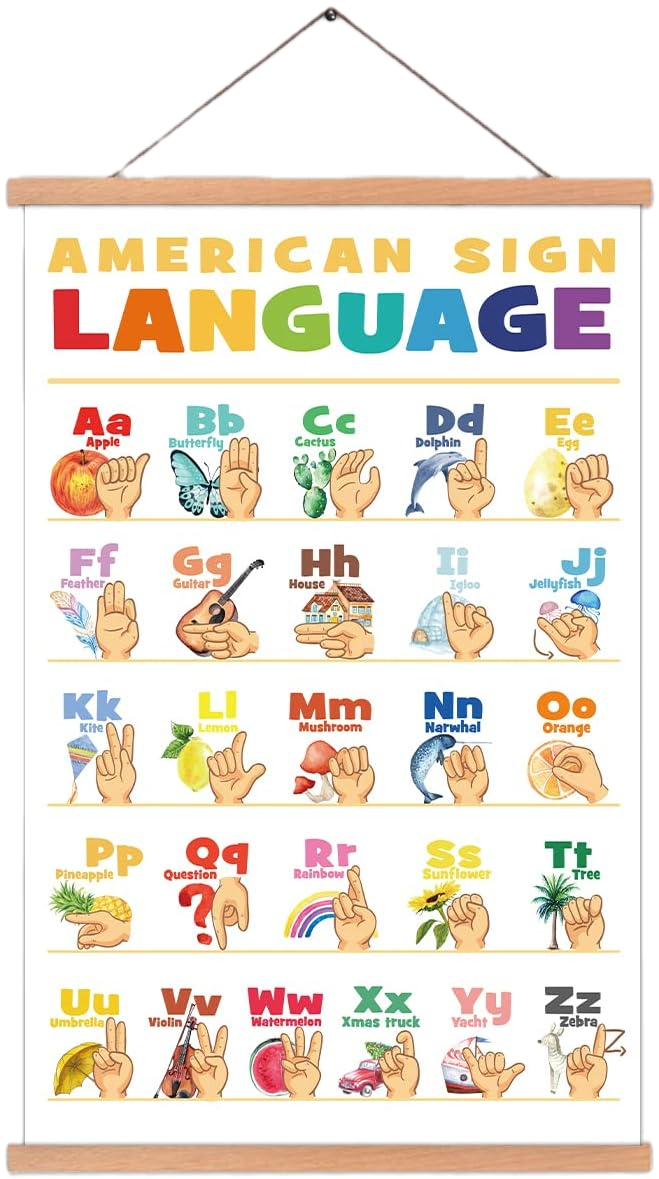
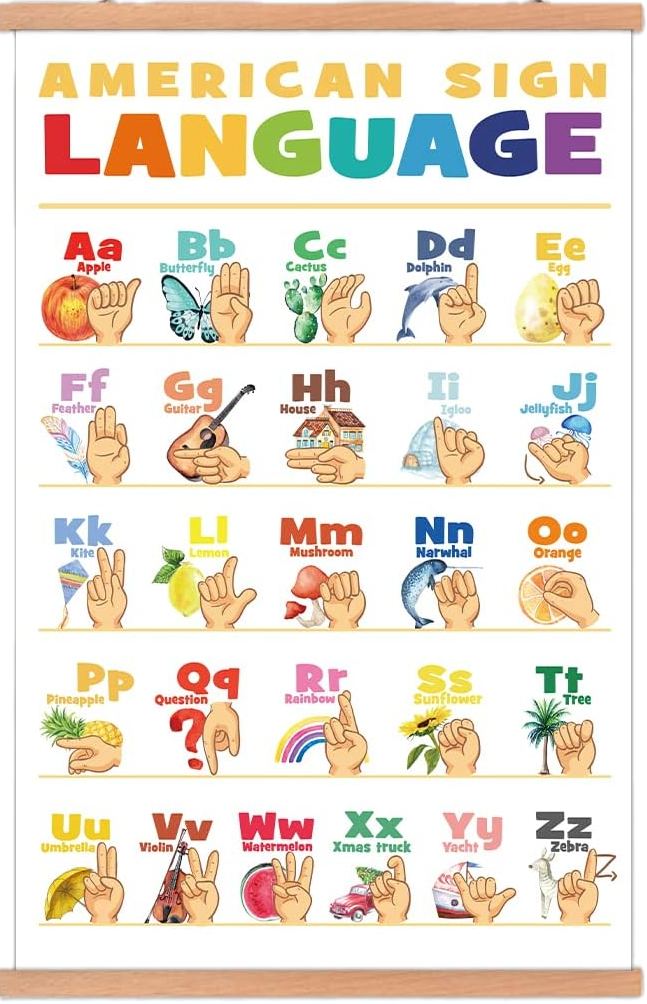
language and image adjustments

diff --git a/src/component/pages/englishLettersIdentifyPage/EnglishLettersIdentifyPage.tsx b/src/component/pages/englishLettersIdentifyPage/EnglishLettersIdentifyPage.tsx
@@ -1,7 +1,7 @@
 import React, { useRef, useState, useEffect, useContext } from "react";
 import { Layout, Button, Select } from "antd";
 import { useNavigate } from "react-router-dom"; 
-import { io } from "socket.io-client";
+import  io from "socket.io-client";
 
 import { 
   mainLayoutContainer, 
@@ -147,25 +147,25 @@ const EnglishLettersIdentifyPage: React.FC = () => {
 
             {/* Right: White Background Panel */}
             <div style={contentRightPanel}>
-              <h2>Instructions</h2>
+            <h2>{t("Instructions")}</h2>
               <p>
-                * Follow the signing instructions carefully and practice along.
+                * {t("InstructionSteps")}.
               </p>
-              <p
-                style={{ fontSize: "36px", fontWeight: "bold", color: "green" }}
+              <h2
+                style={{ fontSize: "30px", fontWeight: "bold", color:"#3b0b96" }}
               >
-                Predicted Letter:{" "}
+                {t("PredictedLetter")}:{" "}
                 <span style={{ fontSize: "48px", color: "red" }}>
                   {predictedLetter}
                 </span>
-              </p>
+              </h2>
             </div>
           </div>
 
           {/* Camera Controls */}
           <div style={{ marginTop: "10px", display: "flex", gap: "10px", justifyContent: "center" }}>
-          <Button type="default" onClick={captureFrame}>
-              Capture Frame
+          <Button type="default" style={{backgroundColor:"#1677ff" , color:"white"}} onClick={captureFrame}>
+          {t("CaptureFrame")}
             </Button>
           </div>
         </div>
@@ -174,7 +174,7 @@ const EnglishLettersIdentifyPage: React.FC = () => {
         <div style={sidePanel}>
           <img
             src={englishLetters}
-            style={{ height: "850px", width: "100%" }}
+            style={{ height: "800px", width: "100%" }}
             alt="English_Letters"
           />
         </div>

diff --git a/src/component/pages/sinhalaLettersIdentifyPage/SinhalaLettersIdentifyPage.tsx b/src/component/pages/sinhalaLettersIdentifyPage/SinhalaLettersIdentifyPage.tsx
@@ -1,7 +1,7 @@
 import React, { useRef, useState, useEffect, useContext } from "react";
 import { Layout, Button, Select } from "antd";
 import { useNavigate } from "react-router-dom";
-import { io } from "socket.io-client";
+import  io  from "socket.io-client";
 import {
   mainLayoutContainer,
   contentContainer,
@@ -142,14 +142,14 @@ const SinhalaLettersIdentifyPage: React.FC = () => {
 
             {/* Right: White Background Panel */}
             <div style={contentRightPanel}>
-              <h2>Instructions</h2>
+            <h2>{t("Instructions")}</h2>
               <p>
-                * Follow the signing instructions carefully and practice along.
+                * {t("InstructionSteps")}.
               </p>
               <p
                 style={{ fontSize: "36px", fontWeight: "bold", color: "green" }}
               >
-                Predicted Letter:{" "}
+                {t("PredictedLetter")}:{" "}
                 <span style={{ fontSize: "48px", color: "red" }}>
                   {predictedLetter}
                 </span>
@@ -161,8 +161,8 @@ const SinhalaLettersIdentifyPage: React.FC = () => {
           <div style={{ marginTop: "10px", display: "flex", gap: "10px", justifyContent: "center" }}>
             {/* <Button type="primary" onClick={openCamera}>{t("OpenCamera")}</Button>
             <Button type="primary" danger onClick={closeCamera}>{t("CloseCamera")}</Button> */}
-             <Button type="default" onClick={captureFrame}>
-              Capture Frame
+             <Button type="default" style={{backgroundColor:"#1677ff" , color:"white"}} onClick={captureFrame}>
+             {t("CaptureFrame")}
             </Button>
           </div>
         </div>
